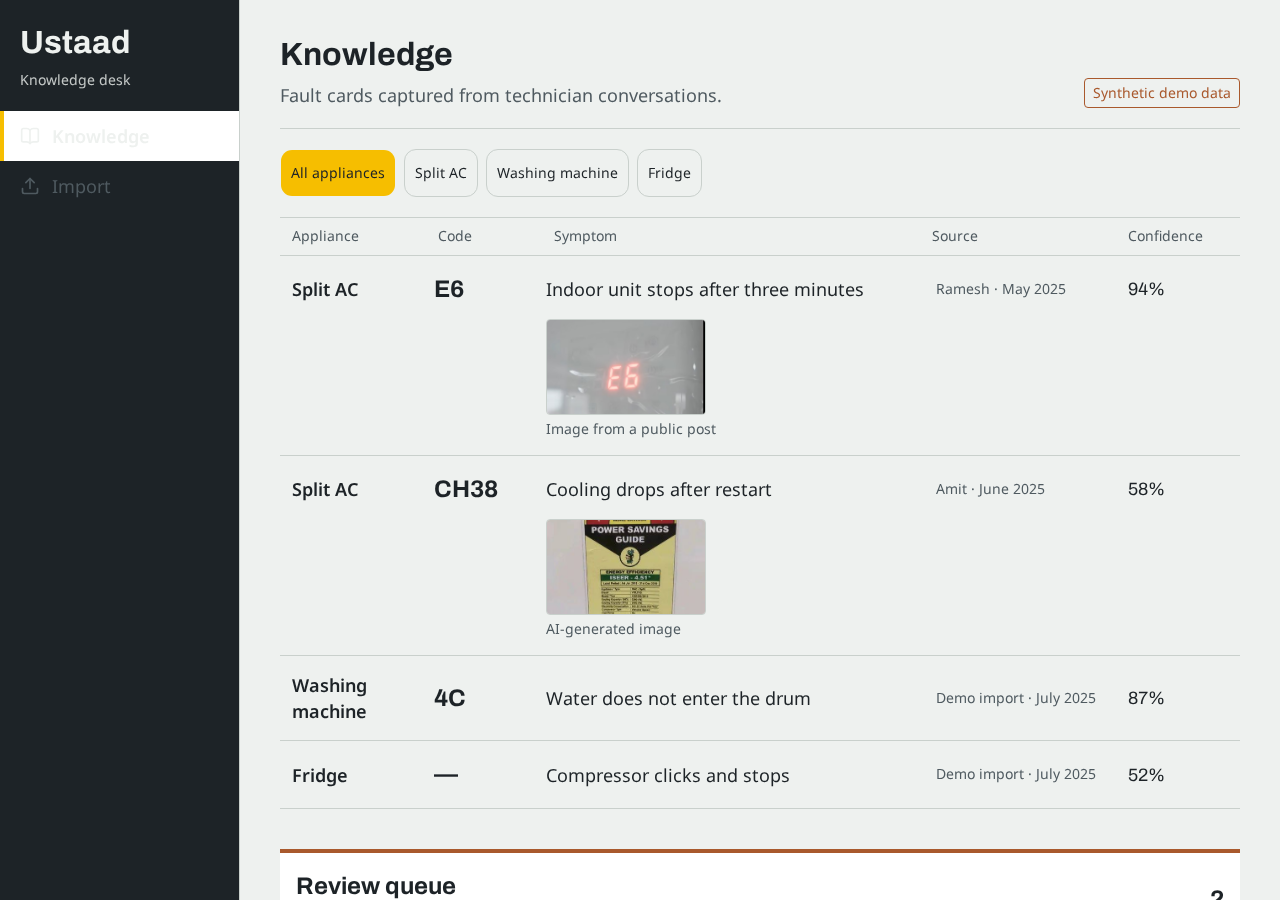
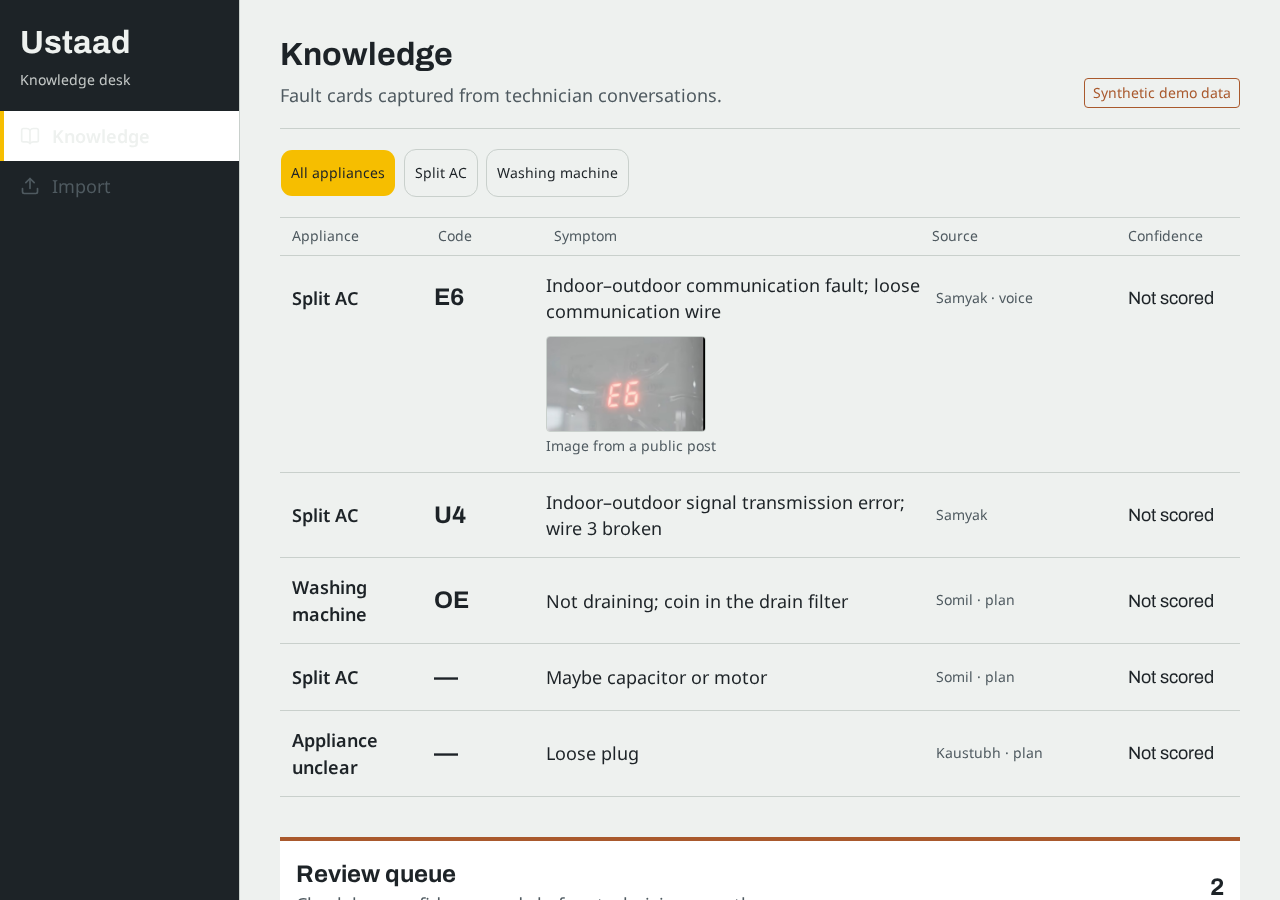
T24: address dashboard review

diff --git a/web/src/routes/d/Import.tsx b/web/src/routes/d/Import.tsx
@@ -1,4 +1,4 @@
-import { AlertTriangle, Check, FileAudio, LoaderCircle } from 'lucide-react'
+import { AlertTriangle, Check, FileArchive, LoaderCircle } from 'lucide-react'
 import { useTranslation } from 'react-i18next'
 
 import { dashboardFixture, type ImportStatus, safeImportError } from '@/api/dashboard'
@@ -9,13 +9,101 @@ export default function ImportDashboard() {
   const { t } = useTranslation()
   const current = dashboardFixture.currentImport
   const currentIndex = STEPS.indexOf(current.status)
-  return <div className="mx-auto max-w-5xl"><header className="border-b border-border pb-5"><div className="flex flex-wrap items-center justify-between gap-3"><h1 className="font-heading text-[length:var(--text-xl)] font-bold">{t('dashboard.import')}</h1><span className="rounded-sm border border-parts px-2 py-1 text-[length:var(--text-sm)] text-parts">{t('dashboard.synthetic')}</span></div><p className="mt-2 max-w-3xl text-muted-foreground">{t('dashboard.importDisclosure')}</p></header>
-    <section className="mt-6 border-l-4 border-l-primary bg-card p-5" aria-labelledby="progress-title"><div className="flex flex-wrap items-start justify-between gap-4"><div><h2 id="progress-title" className="font-heading text-[length:var(--text-lg)] font-bold">{t('dashboard.importProgress')}</h2><p role="status" className="mt-1">{t(`dashboard.status.${current.status}`)}</p></div><span className="font-heading text-[length:var(--text-xl)] font-bold tabular-nums">{current.cardsCreated}</span></div>
-      <ol className="mt-6 grid gap-2 sm:grid-cols-5">{STEPS.map((step, index) => <li key={step} className={`border-t-4 px-1 pt-2 text-[length:var(--text-sm)] ${index <= currentIndex ? 'border-t-ok' : 'border-t-border text-muted-foreground'}`}>{index < currentIndex ? <Check className="mb-1" size={18} /> : index === currentIndex ? <LoaderCircle className="mb-1 motion-safe:animate-spin" size={18} /> : null}{t(`dashboard.status.${step}`)}</li>)}</ol>
-      <dl className="mt-6 grid grid-cols-2 gap-4 border-t border-border pt-4 sm:grid-cols-4"><Metric label={t('dashboard.voiceNotes')} value={`${current.audioDone}/${current.audioTotal}`} /><Metric label={t('dashboard.threads')} value={current.threads} /><Metric label={t('dashboard.cardsCreated')} value={current.cardsCreated} /><Metric label={t('dashboard.needsReview')} value={current.cardsNeedingReview} /></dl>
-    </section>
-    <section className="mt-8" aria-labelledby="activity-title"><h2 id="activity-title" className="font-heading text-[length:var(--text-lg)] font-bold">{t('dashboard.importActivity')}</h2><ul className="mt-3 border-y border-border">{dashboardFixture.importHistory.map((item, index) => <li key={item.id} className="grid grid-cols-[32px_1fr_auto] items-center gap-3 border-b border-border px-2 py-4 last:border-b-0"><FileAudio className="text-parts" size={22} /><div><p className="font-semibold">{t('dashboard.voiceItem', { number: index + 1 })}</p><p className="text-[length:var(--text-sm)] text-muted-foreground">{t(`dashboard.status.${item.status}`)}</p>{item.errors.map((error) => <p role="alert" className="mt-1 flex items-center gap-1 text-[length:var(--text-sm)] text-destructive" key={error}><AlertTriangle size={16} />{t(`dashboard.errors.${safeImportError(error)}`)}</p>)}</div>{item.cardsCreated > 0 && <span className="rounded-sm border border-ok px-2 py-1 text-[length:var(--text-sm)] text-ok">{t('dashboard.tagsCreated', { count: item.cardsCreated })}</span>}</li>)}</ul></section>
-  </div>
+
+  return (
+    <div className="mx-auto max-w-5xl">
+      <header className="border-b border-border pb-5">
+        <div className="flex flex-wrap items-center justify-between gap-3">
+          <h1 className="font-heading text-[length:var(--text-xl)] font-bold">{t('dashboard.import')}</h1>
+          <span className="rounded-sm border border-parts px-2 py-1 text-[length:var(--text-sm)] text-parts">
+            {t('dashboard.synthetic')}
+          </span>
+        </div>
+        <p className="mt-2 max-w-3xl text-muted-foreground">{t('dashboard.importDisclosure')}</p>
+      </header>
+
+      <section className="mt-6 border-l-4 border-l-primary bg-card p-5" aria-labelledby="progress-title">
+        <div className="flex flex-wrap items-start justify-between gap-4">
+          <div>
+            <h2 id="progress-title" className="font-heading text-[length:var(--text-lg)] font-bold">
+              {t('dashboard.importProgress')}
+            </h2>
+            <p role="status" className="mt-1">{t(`dashboard.status.${current.status}`)}</p>
+          </div>
+          <span className="font-heading text-[length:var(--text-xl)] font-bold tabular-nums">
+            {current.cardsCreated}
+          </span>
+        </div>
+
+        <ol className="mt-6 grid gap-2 sm:grid-cols-5">
+          {STEPS.map((step, index) => (
+            <li
+              key={step}
+              className={`border-t-4 px-1 pt-2 text-[length:var(--text-sm)] ${index <= currentIndex ? 'border-t-ok' : 'border-t-border text-muted-foreground'}`}
+            >
+              {index < currentIndex ? (
+                <Check className="mb-1" size={18} />
+              ) : index === currentIndex ? (
+                <LoaderCircle className="mb-1 motion-safe:animate-spin" size={18} />
+              ) : null}
+              {t(`dashboard.status.${step}`)}
+            </li>
+          ))}
+        </ol>
+
+        <dl className="mt-6 grid grid-cols-2 gap-4 border-t border-border pt-4 sm:grid-cols-4">
+          <Metric label={t('dashboard.voiceNotes')} value={`${current.audioDone}/${current.audioTotal}`} />
+          <Metric label={t('dashboard.threads')} value={current.threads} />
+          <Metric label={t('dashboard.cardsCreated')} value={current.cardsCreated} />
+          <Metric label={t('dashboard.needsReview')} value={current.cardsNeedingReview} />
+        </dl>
+      </section>
+
+      <section className="mt-8" aria-labelledby="activity-title">
+        <h2 id="activity-title" className="font-heading text-[length:var(--text-lg)] font-bold">
+          {t('dashboard.importActivity')}
+        </h2>
+        <ul className="mt-3 border-y border-border">
+          {dashboardFixture.importHistory.map((item, index) => (
+            <li
+              key={item.id}
+              className="grid grid-cols-[32px_1fr_auto] items-center gap-3 border-b border-border px-2 py-4 last:border-b-0"
+            >
+              <FileArchive className="text-parts" size={22} />
+              <div>
+                <p className="font-semibold">{t('dashboard.importItem', { number: index + 1 })}</p>
+                <p className="text-[length:var(--text-sm)] text-muted-foreground">
+                  {t(`dashboard.status.${item.status}`)}
+                </p>
+                {item.errors.map((error) => (
+                  <p
+                    role="alert"
+                    className="mt-1 flex items-center gap-1 text-[length:var(--text-sm)] text-destructive"
+                    key={error}
+                  >
+                    <AlertTriangle size={16} />
+                    {t(`dashboard.errors.${safeImportError(error)}`)}
+                  </p>
+                ))}
+              </div>
+              {item.cardsCreated > 0 && (
+                <span className="rounded-sm border border-ok px-2 py-1 text-[length:var(--text-sm)] text-ok">
+                  {t('dashboard.cardsCreatedBadge', { count: item.cardsCreated })}
+                </span>
+              )}
+            </li>
+          ))}
+        </ul>
+      </section>
+    </div>
+  )
 }
 
-function Metric({ label, value }: { label: string; value: string | number }) { return <div><dt className="text-[length:var(--text-sm)] text-muted-foreground">{label}</dt><dd className="mt-1 font-heading text-[length:var(--text-lg)] font-bold tabular-nums">{value}</dd></div> }
+function Metric({ label, value }: { label: string; value: string | number }) {
+  return (
+    <div>
+      <dt className="text-[length:var(--text-sm)] text-muted-foreground">{label}</dt>
+      <dd className="mt-1 font-heading text-[length:var(--text-lg)] font-bold tabular-nums">{value}</dd>
+    </div>
+  )
+}

diff --git a/web/src/api/dashboard.ts b/web/src/api/dashboard.ts
@@ -1,5 +1,5 @@
 export type ImportStatus = 'queued' | 'parsing' | 'transcribing' | 'extracting' | 'done' | 'failed'
-export type ApplianceType = 'all' | 'split_ac' | 'washing_machine' | 'fridge'
+export type ApplianceType = 'all' | 'split_ac' | 'washing_machine' | 'unknown'
 export type ReviewStatus = 'approved' | 'needs_review'
 export type ImageOrigin = 'ai_generated' | 'public_post'
 
@@ -11,7 +11,7 @@ export type KnowledgeCard = {
   code: string
   symptom: string
   source: string
-  confidence: number
+  confidence: number | null
   reviewStatus: ReviewStatus
   image?: { src: string; origin: ImageOrigin }
 }
@@ -28,10 +28,15 @@ export type ImportView = {
   errors: string[]
 }
 
-const SAFE_IMPORT_ERRORS = new Set(['pipeline_failed', 'archive_invalid', 'date_order_ambiguous'])
+const SAFE_IMPORT_ERRORS = new Map([
+  ['The chat import could not be processed.', 'pipeline_failed'],
+  ['The chat date order could not be determined, so the import was not processed.', 'date_order_ambiguous'],
+  ['One chat attachment could not be read, so it was kept without enrichment.', 'attachment_failed'],
+  ['One chat thread could not be read, so it was skipped.', 'thread_failed'],
+])
 
 export function safeImportError(error: string) {
-  return SAFE_IMPORT_ERRORS.has(error) ? error : 'pipeline_failed'
+  return SAFE_IMPORT_ERRORS.get(error) ?? 'pipeline_failed'
 }
 
 export function filterCards(cards: KnowledgeCard[], applianceType: ApplianceType) {
@@ -59,27 +64,32 @@ export const dashboardFixture: { currentImport: ImportView; importHistory: Impor
     threads: status === 'extracting' || status === 'done' ? 9 : 0,
     cardsCreated: status === 'done' ? 9 : 0,
     cardsNeedingReview: status === 'done' ? 2 : 0,
-    errors: status === 'failed' ? ['pipeline_failed'] : [],
+    errors: status === 'failed' ? ['The chat import could not be processed.'] : [],
   })),
   cards: [
     {
       id: 'fc_ac_1', applianceType: 'split_ac', applianceLabel: 'Split AC', brand: 'Voltas', code: 'E6',
-      symptom: 'Indoor unit stops after three minutes', source: 'Ramesh · May 2025', confidence: 0.94,
+      symptom: 'Indoor–outdoor communication fault; loose communication wire', source: 'Samyak · voice', confidence: null,
       reviewStatus: 'approved', image: { src: '/samples/display_e6.jpg', origin: 'public_post' },
     },
     {
-      id: 'fc_ac_2', applianceType: 'split_ac', applianceLabel: 'Split AC', brand: 'LG', code: 'CH38',
-      symptom: 'Cooling drops after restart', source: 'Amit · June 2025', confidence: 0.58,
-      reviewStatus: 'needs_review', image: { src: '/samples/voltas_label.jpg', origin: 'ai_generated' },
-    },
-    {
-      id: 'fc_washer_1', applianceType: 'washing_machine', applianceLabel: 'Washing machine', brand: 'Samsung', code: '4C',
-      symptom: 'Water does not enter the drum', source: 'Demo import · July 2025', confidence: 0.87,
+      id: 'fc_ac_2', applianceType: 'split_ac', applianceLabel: 'Split AC', brand: 'Daikin', code: 'U4',
+      symptom: 'Indoor–outdoor signal transmission error; wire 3 broken', source: 'Samyak', confidence: null,
       reviewStatus: 'approved',
     },
     {
-      id: 'fc_fridge_1', applianceType: 'fridge', applianceLabel: 'Fridge', brand: 'Whirlpool', code: '—',
-      symptom: 'Compressor clicks and stops', source: 'Demo import · July 2025', confidence: 0.52,
+      id: 'fc_washer_1', applianceType: 'washing_machine', applianceLabel: 'Washing machine', brand: 'LG', code: 'OE',
+      symptom: 'Not draining; coin in the drain filter', source: 'Somil · plan', confidence: null,
+      reviewStatus: 'approved',
+    },
+    {
+      id: 'fc_review_1', applianceType: 'split_ac', applianceLabel: 'Split AC', brand: '', code: '',
+      symptom: 'Maybe capacitor or motor', source: 'Somil · plan', confidence: null,
+      reviewStatus: 'needs_review',
+    },
+    {
+      id: 'fc_review_2', applianceType: 'unknown', applianceLabel: 'Appliance unclear', brand: '', code: '',
+      symptom: 'Loose plug', source: 'Kaustubh · plan', confidence: null,
       reviewStatus: 'needs_review',
     },
   ],

diff --git a/web/src/routes/d/Knowledge.tsx b/web/src/routes/d/Knowledge.tsx
@@ -5,7 +5,7 @@ import { useTranslation } from 'react-i18next'
 import { type ApplianceType, dashboardFixture, filterCards, type KnowledgeCard } from '@/api/dashboard'
 import { Button } from '@/components/ui/button'
 
-const FILTERS: ApplianceType[] = ['all', 'split_ac', 'washing_machine', 'fridge']
+const FILTERS: ApplianceType[] = ['all', 'split_ac', 'washing_machine']
 
 export default function Knowledge() {
   const { t } = useTranslation()
@@ -42,9 +42,9 @@ export default function Knowledge() {
 
 function CardRow({ card }: { card: KnowledgeCard }) {
   const { t } = useTranslation()
-  return <li className="grid gap-3 px-3 py-4 md:grid-cols-[130px_100px_minmax(220px,1fr)_180px_100px] md:items-center"><span className="font-semibold">{card.applianceLabel}</span><span className="font-heading text-[length:var(--text-lg)] font-bold">{card.code}</span><CardSummary card={card} compact /><span className="text-[length:var(--text-sm)] text-muted-foreground">{card.source}</span><span className="font-heading tabular-nums">{Math.round(card.confidence * 100)}%</span>{card.image && <figure className="md:col-start-3"><img className="h-24 w-40 rounded-sm border border-border object-cover" src={card.image.src} alt="" /><figcaption className="mt-1 text-[length:var(--text-sm)] text-muted-foreground">{t(`dashboard.image.${card.image.origin}`)}</figcaption></figure>}</li>
+  return <li className="grid gap-3 px-3 py-4 md:grid-cols-[130px_100px_minmax(220px,1fr)_180px_100px] md:items-center"><span className="font-semibold">{card.applianceLabel}</span><span className="font-heading text-[length:var(--text-lg)] font-bold">{card.code || '—'}</span><CardSummary card={card} compact /><span className="text-[length:var(--text-sm)] text-muted-foreground">{card.source}</span><span className="font-heading tabular-nums">{card.confidence === null ? t('dashboard.notScored') : `${Math.round(card.confidence * 100)}%`}</span>{card.image && <figure className="md:col-start-3"><img className="h-24 w-40 rounded-sm border border-border object-cover" src={card.image.src} alt="" /><figcaption className="mt-1 text-[length:var(--text-sm)] text-muted-foreground">{t(`dashboard.image.${card.image.origin}`)}</figcaption></figure>}</li>
 }
 
 function CardSummary({ card, compact = false }: { card: KnowledgeCard; compact?: boolean }) {
-  return <div className="min-w-0"><p>{card.symptom}</p>{!compact && <p className="mt-1 text-[length:var(--text-sm)] text-muted-foreground">{card.brand} · {card.code} · {Math.round(card.confidence * 100)}%</p>}</div>
+  return <div className="min-w-0"><p>{card.symptom}</p>{!compact && <p className="mt-1 text-[length:var(--text-sm)] text-muted-foreground">{card.brand || '—'} · {card.code || '—'}</p>}</div>
 }

diff --git a/web/src/api/dashboard.test.ts b/web/src/api/dashboard.test.ts
@@ -8,7 +8,10 @@ test('knowledge cards filter by appliance type and review status', () => {
 })
 
 test('import errors expose only fixed safe messages', () => {
-  expect(safeImportError('pipeline_failed')).toBe('pipeline_failed')
+  expect(safeImportError('The chat import could not be processed.')).toBe('pipeline_failed')
+  expect(safeImportError('One chat attachment could not be read, so it was kept without enrichment.')).toBe(
+    'attachment_failed',
+  )
   expect(safeImportError('gs://bucket/private.zip token=secret')).toBe('pipeline_failed')
 })
 
